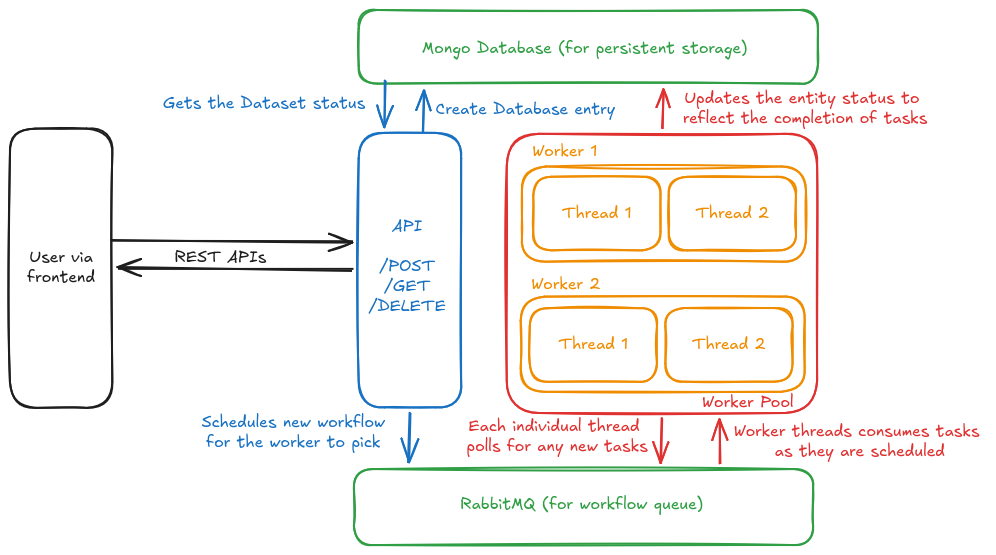
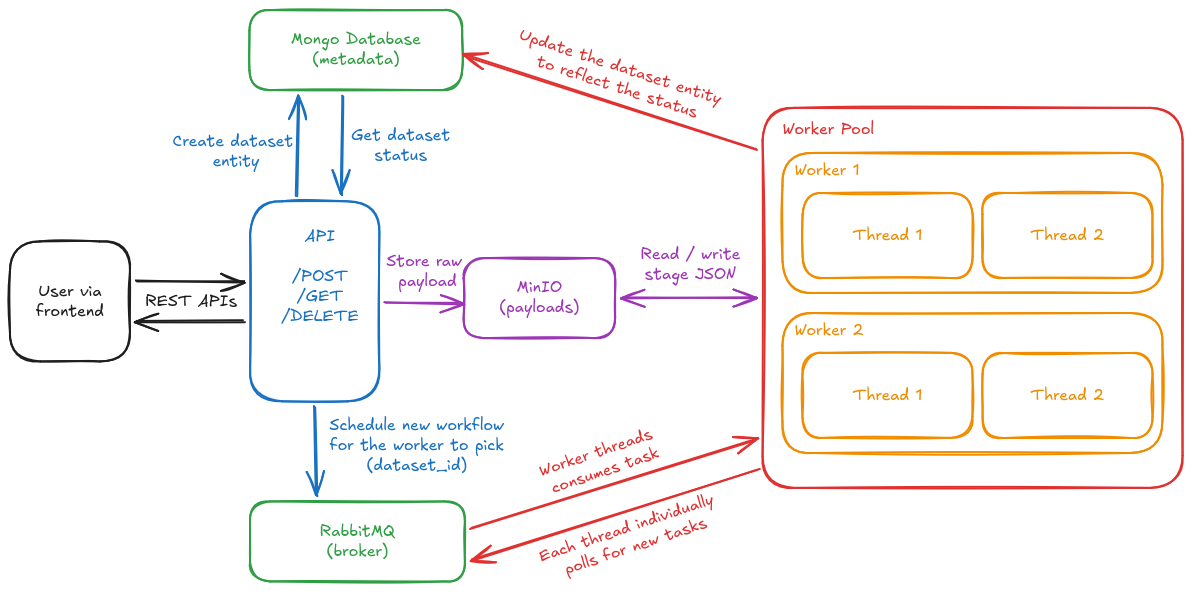
update readme and image

diff --git a/README.md b/README.md
@@ -37,6 +37,9 @@ RabbitMQ provides proper message acknowledgment semantics. Combined with `acks_l
 **MongoDB for persistence:**
 Dataset entities are stored as documents in MongoDB, which naturally maps to the nested result structure (category_summary, etc.). PyMongo `AsyncMongoClient` is used in FastAPI to avoid blocking the event loop, while `MongoClient` (sync) is used in Celery workers since tasks are synchronous by nature. One library, two clients.
 
+**MinIO (S3-compatible) for payload storage:**
+Only the `dataset_id` (a short string) travels through the Celery broker — the actual record payloads are written to and read from MinIO at every stage boundary. On upload, the raw JSON is stored at `datasets/{id}/raw.json`; each pipeline stage then reads its input and writes its output (`preprocessed.json` → `computed.json` → `result.json`) under the same prefix. This keeps RabbitMQ messages tiny (sidestepping the 128 MB default message limit), makes every stage individually replayable from its input artifact, and leaves Mongo storing only metadata. The same `boto3` code works against MinIO locally and AWS S3 in production with only an endpoint-URL change.
+
 **Dataset entity as source of truth:**
 Instead of relying on Celery's `AsyncResult` for status, each dataset has a dedicated MongoDB document tracking its lifecycle (`QUEUED → PREPROCESSING → COMPUTING → SUMMARISING → COMPLETED/FAILED`). This decouples status tracking from the broker and survives restarts and failures.
 This model brings in consistency and a single source of truth for the REST consumers and can poll to check the status of the task being run.
